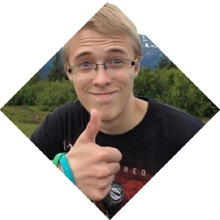
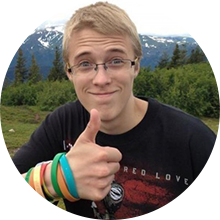
almost done

diff --git a/almpoumsettings/AlmpoumSettings.mm b/almpoumsettings/AlmpoumSettings.mm
@@ -4,6 +4,8 @@
 #import <Social/SLComposeViewController.h>
 #import <Social/SLServiceTypes.h>
 
+#define SETTINGS_FILE @"/var/mobile/Library/Preferences/com.efrederickson.almpoum.settings.plist"
+
 
 @interface PSTableCell (Almpoum)
 @property (nonatomic, retain) UIView *backgroundView;
@@ -14,6 +16,7 @@
 @interface PSListController (Almpoum)
 - (void)presentViewController:(UIViewController *)viewControllerToPresent animated:(BOOL)flag completion:(void (^)(void))completion;
 - (void)dismissViewControllerAnimated:(BOOL)flag completion:(void (^)(void))completion;
+-(UINavigationController*)navigationController;
 @end
 
 @interface AlmpoumSettingsListController: PSListController {}
@@ -60,6 +63,10 @@
     
     [self presentViewController:composeController
                        animated:YES completion:nil];
+    
+    NSMutableDictionary *dict = [[[NSMutableDictionary alloc] initWithContentsOfFile:SETTINGS_FILE] autorelease];
+    [dict setValue:@1 forKey:@"useExtremeLanguage"];
+    [dict writeToFile:SETTINGS_FILE atomically:YES];
 }
 
 @end
@@ -84,38 +91,28 @@
 @implementation AlmpoumSupportController
 
 -(id) specifiers {
-    if (_specifiers == nil)
+    if (!mailViewController && [MFMailComposeViewController canSendMail])
     {
-        if (!mailViewController && [MFMailComposeViewController canSendMail])
-        {
-            mailViewController = [[MFMailComposeViewController alloc] init];
-            mailViewController.mailComposeDelegate = self;
-            [mailViewController setSubject:@"Almpoum"];
-            [mailViewController setMessageBody:@"" isHTML:NO];
-            [mailViewController setToRecipients:[NSArray arrayWithObjects:@"elijah.frederickson@gmail.com",@"andrewaboshartworks@gmail.com",nil]];
-            [mailViewController addAttachmentData:[[NSFileManager defaultManager] contentsAtPath:@"/var/mobile/Library/Preferences/com.efrederickson.almpoum.settings.plist"] mimeType:@"text/plain" fileName:@"almpoum.settings.plist"];
+        mailViewController = [[MFMailComposeViewController alloc] init];
+        mailViewController.mailComposeDelegate = self;
+        [mailViewController setSubject:@"Almpoum"];
+        [mailViewController setMessageBody:@"" isHTML:NO];
+        [mailViewController setToRecipients:[NSArray arrayWithObjects:@"elijah.frederickson@gmail.com",@"andrewaboshartworks@gmail.com",nil]];
+        [mailViewController addAttachmentData:[[NSFileManager defaultManager] contentsAtPath:@"/var/mobile/Library/Preferences/com.efrederickson.almpoum.settings.plist"] mimeType:@"text/plain" fileName:@"almpoum.settings.plist"];
         
-            [self.rootController presentViewController:mailViewController animated:YES completion:nil];
-            //[mailViewController release];
-        }
-        //[[super navigationController] popViewControllerAnimated:YES];
-        
-        NSMutableArray *specifiers = [NSMutableArray array];
-        [specifiers addObject:[PSSpecifier preferenceSpecifierNamed:@"Thank you"
-                                                             target:self set:NULL get:NULL
-                                                             detail:Nil
-                                                               cell:PSStaticTextCell
-                                                               edit:Nil]];
-        _specifiers = specifiers;
+        [self.rootController presentViewController:mailViewController animated:YES completion:nil];
+        //[mailViewController release];
     }
-    return _specifiers;
+    //[[super navigationController] popViewControllerAnimated:YES];
+        
+    return nil;
 }
 
 -(void)mailComposeController:(MFMailComposeViewController*)controller didFinishWithResult:(MFMailComposeResult)result error:(NSError*)error {
     [self dismissViewControllerAnimated:YES completion:NULL];
     
-    //[self.rootController popController];
-    //[[super navigationController] popViewControllerAnimated:YES];
+    UINavigationController *navController = self.navigationController;
+    [navController popViewControllerAnimated:YES];
 }
 
 @end
@@ -192,41 +189,31 @@
 	if((self = [super initWithStyle:style reuseIdentifier:reuseIdentifier])){
         UIImage *bkIm = [[UIImage alloc] initWithContentsOfFile:@"/Library/PreferenceBundles/AlmpoumSettings.bundle/elijah@2x.png"];
         _background = [[UIImageView alloc] initWithImage:bkIm];
-        _background.frame = CGRectMake(10, 15, 65, 70);
+        _background.frame = CGRectMake(9, 18, 65, 65);
         [self addSubview:_background];
         
         CGRect frame = [self frame];
         
-        label = [[UILabel alloc] initWithFrame:CGRectMake(frame.origin.x + 80, frame.origin.y + 20, frame.size.width, frame.size.height)];
+        label = [[UILabel alloc] initWithFrame:CGRectMake(frame.origin.x + 84, frame.origin.y + 18, frame.size.width, frame.size.height)];
         [label setText:@"Elijah Frederickson"];
         [label setBackgroundColor:[UIColor clearColor]];
         if (UI_USER_INTERFACE_IDIOM() == UIUserInterfaceIdiomPad)
             [label setFont:[UIFont fontWithName:@"Helvetica Light" size:30]];
         else
-            [label setFont:[UIFont fontWithName:@"Helvetica Light" size:25]];
+            [label setFont:[UIFont fontWithName:@"Helvetica Light" size:21]];
 
         [self addSubview:label];
         
-        label2 = [[UILabel alloc] initWithFrame:CGRectMake(frame.origin.x + 80, frame.origin.y + 50, frame.size.width, frame.size.height)];
-        [label2 setText:@"The Developer"];
+        label2 = [[UILabel alloc] initWithFrame:CGRectMake(frame.origin.x + 84, frame.origin.y + 42, frame.size.width, frame.size.height)];
+        NSDictionary *dict = [[[NSDictionary alloc] initWithContentsOfFile:SETTINGS_FILE] autorelease];
+        BOOL useExtremeLanguage = [[dict valueForKey:@"useExtremeLanguage"] intValue] == 1 ? YES : NO;
+        if (useExtremeLanguage)
+            [label2 setText:@"The L33T Developer"];
+        else
+            [label2 setText:@"The Developer"];
         [label2 setBackgroundColor:[UIColor clearColor]];
         [label2 setFont:[UIFont fontWithName:@"Helvetica Light" size:15]];
         [self addSubview:label2];
-        
-        UIImage *btnImage = [UIImage imageNamed:@"twitter.png"];
-        twitterButton = [[UIButton alloc] initWithFrame:CGRectMake(frame.size.width - 70, 10, /*imgWidth*/100, /*imgHeight*/20)];
-        [twitterButton setImage:btnImage forState:UIControlStateNormal];
-        [self addSubview:twitterButton];
-        
-        btnImage = [UIImage imageNamed:@"github.png"];
-        githubButton = [[UIButton alloc] initWithFrame:CGRectMake(frame.size.width - 70, 30 /*imgWidth*/100, /*imgHeight*/20)];
-        [githubButton setImage:btnImage forState:UIControlStateNormal];
-        [self addSubview:githubButton];
-        
-        btnImage = [UIImage imageNamed:@"email.png"];
-        emailButton = [[UIButton alloc] initWithFrame:CGRectMake(frame.size.width - 70, 50, /*imgWidth*/100, /*imgHeight*/20)];
-        [emailButton setImage:btnImage forState:UIControlStateNormal];
-        [self addSubview:emailButton];
     }
     return self;
 }
@@ -245,23 +232,29 @@
 	if((self = [super initWithStyle:style reuseIdentifier:reuseIdentifier])){
         UIImage *bkIm = [[UIImage alloc] initWithContentsOfFile:@"/Library/PreferenceBundles/AlmpoumSettings.bundle/andrew@2x.png"];
         _background = [[UIImageView alloc] initWithImage:bkIm];
-        _background.frame = CGRectMake(10, 15, 65, 70);
+        _background.frame = CGRectMake(9, 18, 65, 65);
         [self addSubview:_background];
         
         CGRect frame = [self frame];
         
-        label = [[UILabel alloc] initWithFrame:CGRectMake(frame.origin.x + 80, frame.origin.y + 20, frame.size.width, frame.size.height)];
+        label = [[UILabel alloc] initWithFrame:CGRectMake(frame.origin.x + 84, frame.origin.y + 18, frame.size.width, frame.size.height)];
         [label setText:@"Andrew Abosh"];
         [label setBackgroundColor:[UIColor clearColor]];
         if (UI_USER_INTERFACE_IDIOM() == UIUserInterfaceIdiomPad)
             [label setFont:[UIFont fontWithName:@"Helvetica Light" size:30]];
         else
-            [label setFont:[UIFont fontWithName:@"Helvetica Light" size:25]];
+            [label setFont:[UIFont fontWithName:@"Helvetica Light" size:21]];
         
         [self addSubview:label];
         
-        label2 = [[UILabel alloc] initWithFrame:CGRectMake(frame.origin.x + 80, frame.origin.y + 50, frame.size.width, frame.size.height)];
-        [label2 setText:@"Graphics designer and inspiration"];
+        label2 = [[UILabel alloc] initWithFrame:CGRectMake(frame.origin.x + 84, frame.origin.y + 42, frame.size.width, frame.size.height)];
+        
+        NSDictionary *dict = [[[NSDictionary alloc] initWithContentsOfFile:SETTINGS_FILE] autorelease];
+        BOOL useExtremeLanguage = [[dict valueForKey:@"useExtremeLanguage"] intValue] == 1 ? YES : NO;
+        if (useExtremeLanguage)
+            [label2 setText:@"Le Artist Of Le Graphics."];
+        else
+            [label2 setText:@"The Graphic Artist"];
         [label2 setBackgroundColor:[UIColor clearColor]];
         [label2 setFont:[UIFont fontWithName:@"Helvetica Light" size:15]];
         
@@ -271,12 +264,39 @@
     }
     return self;
 }
-
-//-(void)cellClicked {
--(void)cellClicked:(id)clicked {
-    NSLog(@"cellClicked");
-    [[UIApplication sharedApplication] openURL:[NSURL URLWithString:@"https://twitter.com/drewplex"]];
-}
-
 @end
 
+@interface openTwitterElijahController : PSListController { }
+@end
+
+@implementation openTwitterElijahController
+- (id)specifiers {
+    [[UIApplication sharedApplication] openURL:[NSURL URLWithString:@"https://twitter.com/daementor"]];
+	return nil;
+}
+
+- (void)viewDidAppear:(BOOL)arg1 {
+    UINavigationController *navController = self.navigationController;
+    [navController popViewControllerAnimated:YES];
+}
+@end
+
+@interface openTwitterAndrewController : PSListController { }
+@end
+
+@implementation openTwitterAndrewController
+- (id)specifiers {
+    [[UIApplication sharedApplication] openURL:[NSURL URLWithString:@"https://twitter.com/drewplex"]];
+    return nil;
+}
+
+- (void)viewDidAppear:(BOOL)arg1 {
+    UINavigationController *navController = self.navigationController;
+    [navController popViewControllerAnimated:YES];
+    
+    //[super popController];
+    //[self.navigationController popToViewController:self.rootController animated:YES];
+    //int count = [self.navigationController.viewControllers count];
+    //[navController popToViewController:[navController.viewControllers objectAtIndex:0] animated:YES];
+}
+@end
